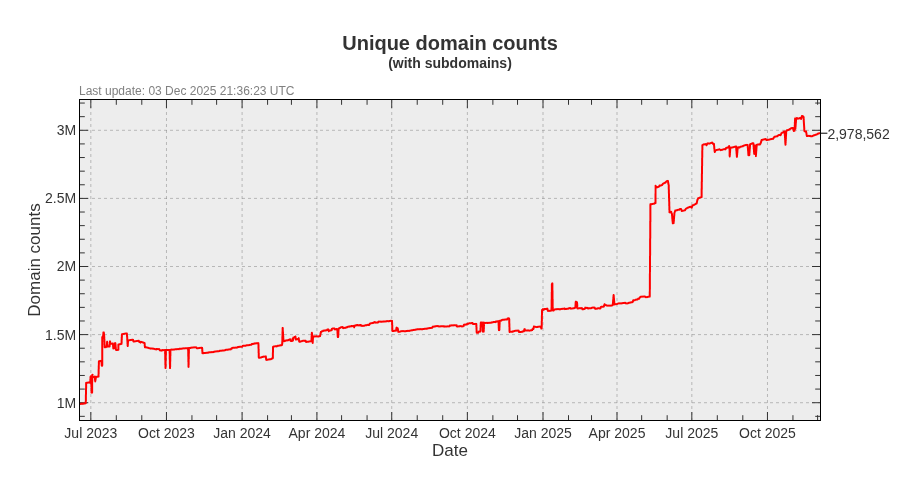
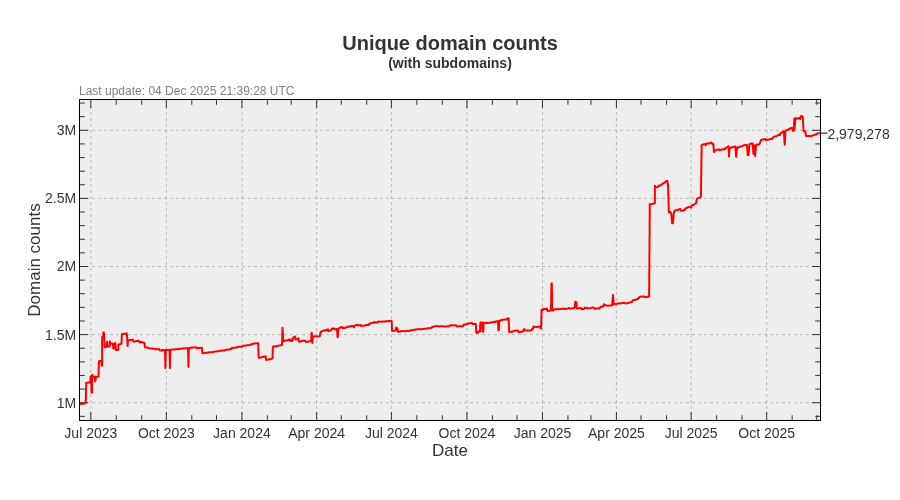
Update pages

diff --git a/README.md b/README.md
@@ -3,22 +3,22 @@ A blocklist file for blocking ads, trackers and malware domains.
 
[1 lines of base64/hex data omitted]
 
-- Unique domains: 2,978,562
-- Without subdomains: 2,279,735
-- Last update: 03 Dec 2025 21:36:23 UTC
-- Version: 2025.12.03.01
+- Unique domains: 2,979,278
+- Without subdomains: 2,280,504
+- Last update: 04 Dec 2025 21:39:28 UTC
+- Version: 2025.12.04.01
 
 
 ### Downloads:
 
 | Format             | Domain count      | Download Link |
 |:------------------ | -----------------:|:-------------:|
-| *Adblock Plus*     | 2,279,735 | [Download](https://dl.cenk.app/bad-hosts/bad-hosts-abp) |
-| *Wildcard domains* | 2,279,735 | [Download](https://dl.cenk.app/bad-hosts/bad-hosts-wildcard) |
-| *dnsmasq*          | 2,279,735 | [Download](https://dl.cenk.app/bad-hosts/bad-hosts-dnsmasq) |
-| *hosts*            | 2,978,562 | [Download](https://dl.cenk.app/bad-hosts/hosts) |
-| *hosts (ipv6)*     | 2,978,562 | [Download](https://dl.cenk.app/bad-hosts/hosts-ipv6) |
-| *Plain domains*    | 2,978,562 | [Download](https://dl.cenk.app/bad-hosts/bad-hosts-domains) |
+| *Adblock Plus*     | 2,280,504 | [Download](https://dl.cenk.app/bad-hosts/bad-hosts-abp) |
+| *Wildcard domains* | 2,280,504 | [Download](https://dl.cenk.app/bad-hosts/bad-hosts-wildcard) |
+| *dnsmasq*          | 2,280,504 | [Download](https://dl.cenk.app/bad-hosts/bad-hosts-dnsmasq) |
+| *hosts*            | 2,979,278 | [Download](https://dl.cenk.app/bad-hosts/hosts) |
+| *hosts (ipv6)*     | 2,979,278 | [Download](https://dl.cenk.app/bad-hosts/hosts-ipv6) |
+| *Plain domains*    | 2,979,278 | [Download](https://dl.cenk.app/bad-hosts/bad-hosts-domains) |
 
 ### Domain count history
 #### With subdomains
